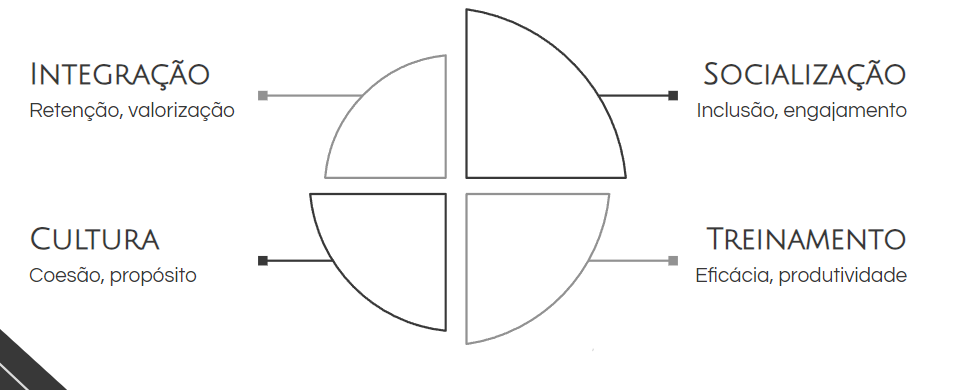
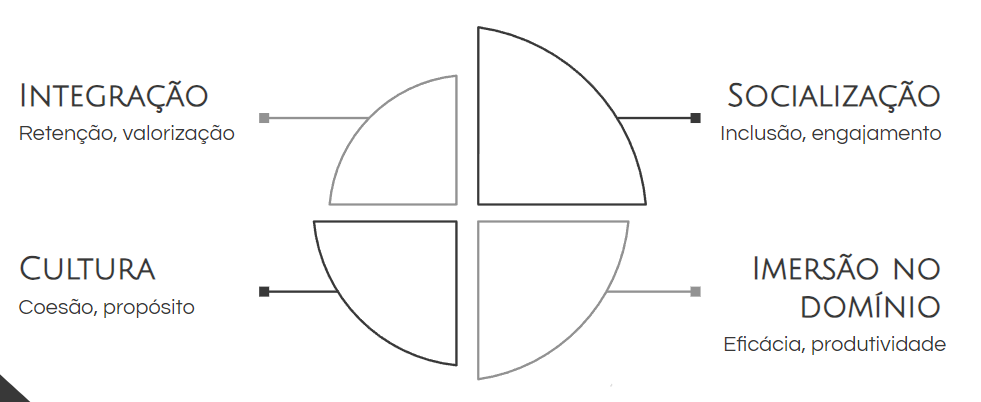
Capítulo 2: incremento da fase inicial da construção do Alicerce + redimensionamento do Onboarding em 3 etapas - Integração, Cultura, Imersão no Domínio

diff --git a/v1/Launchpad-v1.md b/v1/Launchpad-v1.md
@@ -31,6 +31,14 @@ Porém, esses benefícios pressupôem não somente estabelecer uma base de conhe
 ### Visualização do Processo
 - Overview do processo, com auxílio de um diagrama do todo.
 
+#### 3 dimensões do Onboarding propostas:
+- Integração
+  - Objetivos - retenção, valorização, apoio. Inclui a dimensão de socialização.
+- Cultura
+  - Explicitação e execução de valores chave como forma de gerar coesão e propósito nos times.
+- Imersão no domínio
+  - Entendimento do negócio e realização de demandas reais como forma de auxiliar com - eficácia, geração de valor, produtividade. Ler https://engsoftmoderna.info/cap2.html 
+
 Esboço:
 
 ![alt text](./imagens/diagrama-esboço.png)
@@ -38,12 +46,28 @@ Esboço:
 ## Capítulo 2: Estabelecendo o Alicerce
 
 ### Fundamentação
-- "Knowledge Base"
 
-Antes de se iniciar a execução do processo de Onboarding, é importante que as seguintes perguntas sejam respondidas, mesmo que parcialmente. Seu objetivo é tornar explícito e documentado o contexto no qual o time está inserido, tanto para quem planeja a socialização organizacional quanto para quem fará parte do processo. As respostas obtidas devem guiar a tomada de decisões ... pois ... .
+É importante que se entenda o cenário no qual uma equipe atua antes de se iniciar a execução do processo de Onboarding, já que é este meio que delimita o que é relevante para o sucesso do time e, consequentemente, a tomada de decisões e delimitação de metas para a Socialização Organizacional. As necessidades de um time focado no design de interfaces web interativas são diferentes das de um time focado na análise de dados. Enquanto o primeiro tem como prioridades a criação de layouts responsivos e a otimização da experiência do usuário, o segundo tem como foco a transformação de dados brutos em informações e visualizações relevantes à tomada de decisões de negócio.
 
-Esboço/Modelo para contextualização (as perguntas devem convesar/estar relacionadas aos 4 pilares de execução propostos - integração; socialização; cultura; treinamento. procure tornar isso explícito):
-- As a team whose main area of focus is X, we strive to accomplish A, B and C. These objectives derive value to the business by ... , which is in line with the organization strategic objectives ... . We strive to achieve this taking into consideration key company values 1,2 and 3. Our core beliefes are that ... . 
+Dessa forma, é importante que se torne explícito, além de documentado, a conjuntura na qual um time está inserido. Para auxiliar nesse processo, propõe-se como exercício inicial de delimitação de escopo e exploração de contexto a resposta do seguinte modelo de perguntas, mesmo que de forma parcial:
+
+1. Como um time de desenvolvimento de software, nossa área de foco é "...". Atuamnos na "..." .
+2. Nesse contexto, temos como objetivos "..." .
+3. Esses objetivos agregam valor ao negócio pois "...", o que está alinhado com os seguintes objetivos estratégicos da organização "... " .
+4. Nos esforçamos para alcançá-los levando em consideração os valores-chave da empresa "..." .
+5. Como um time, nossas crenças fundamentais são que "..." .
+
+As respostas das perguntas 1, 2 e 3 estão relacionadas às dimensões de "Integração" e "Imersão no Domínio". Explicação ... . Já as perguntas 4 e 5 têm como foco a dimensão "Cultura", pois ... .
+
+A seguir expõe-se um exemplo de resposta baseado nesse modelo:
+
+- Como um time de desenvolvimento de software, nossa área de foco é **Front-end**. Atuamos na **criação e manutenção de interfaces web focadas em e-commerce, baseado no design system desenvolvido pela empresa**. 
+- Nesse contexto, temos como objetivos **aprimorar a usabilidade, acessibilidade e experiência de utilização desses sistemas, garantindo consistência visual e funcional com os padrões de design estabelecidos**.
+- Esses objetivos agregam valor ao negócio pois **contribuem para aumentar o engajamento dos usuários, melhorar as taxas de conversão e fortalecer a identidade das nossas marcas online**. Isso esta alinhado com os seguintes objetivos estratégicos da organização **- aumentar sua presença em mídias digitais e potencializar vendas online**. 
+- Nos esforçamos para alcançar esses objetivos levando em consideração os valores-chave da empresa: **foco no cliente, excelência e inovação**. 
+- Como um time, nossas crenças fundamentais são que **a colaboração e a comunicação eficaz são essenciais para o sucesso, e que o aprendizado contínuo junto à adaptabilidade são cruciais em um ambiente de constante evolução tecnológica**.
+
+[Seria necessário outro exemplo? Talvez um mais simples?]
 
 ### Filtro de Informações
 - Estratégias para filtrar e priorizar informações cruciais, baseado no alicerce criado no tópico anterior. Bases de conhecimento para times de desenvolvimento são geralmente extensas e de difícil manutenção. É importante que a experiência de onboarding seja localizada, idealmente apresentando ao novo contribuidor uma parte específica do todo a qual ele terá maiores chances de trabalhar nas etapas iniciais de seu trabalho.
@@ -61,13 +85,10 @@ Esboço/Modelo para contextualização (as perguntas devem convesar/estar relaci
 #### Integração
 Objetivos - retenção; valorização
 
-#### Socialização
-Objetivos - Inclusão; engajamento
-
 #### Cultura
 Objetivos - Coesão; propósito
 
-#### Treinamento
+#### Imersão no domínio
 Objetivos - Eficácia; redução do tempo para produtividade
 
 ## Capítulo 5: Iteração e Melhoria Contínua
